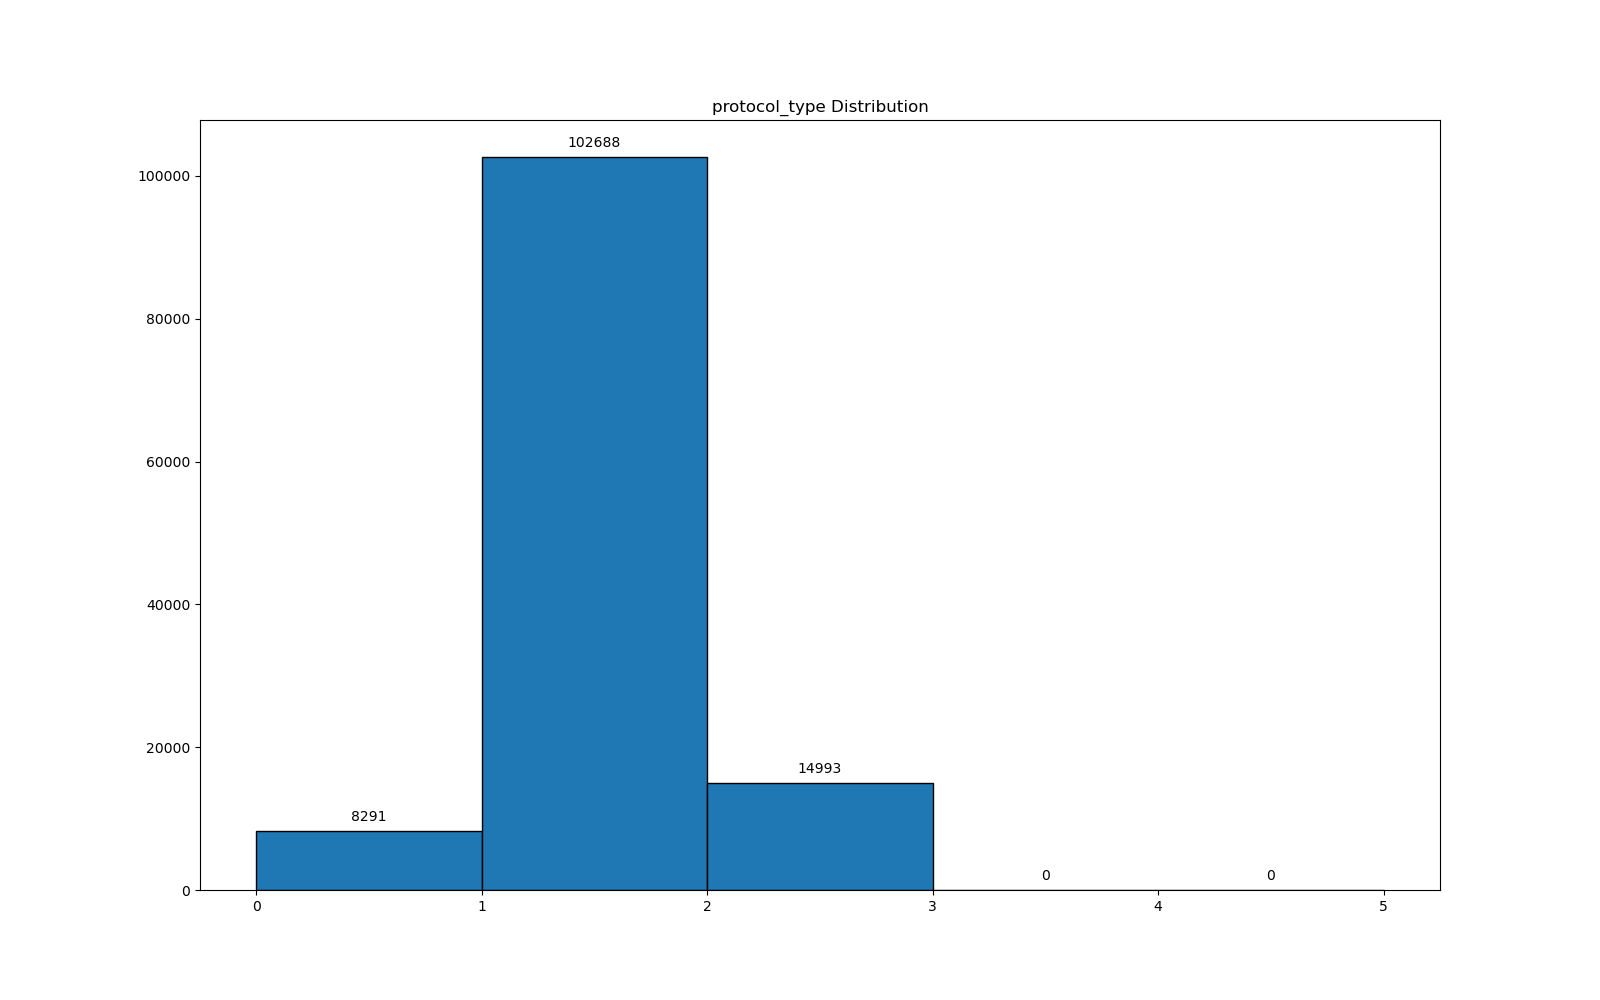
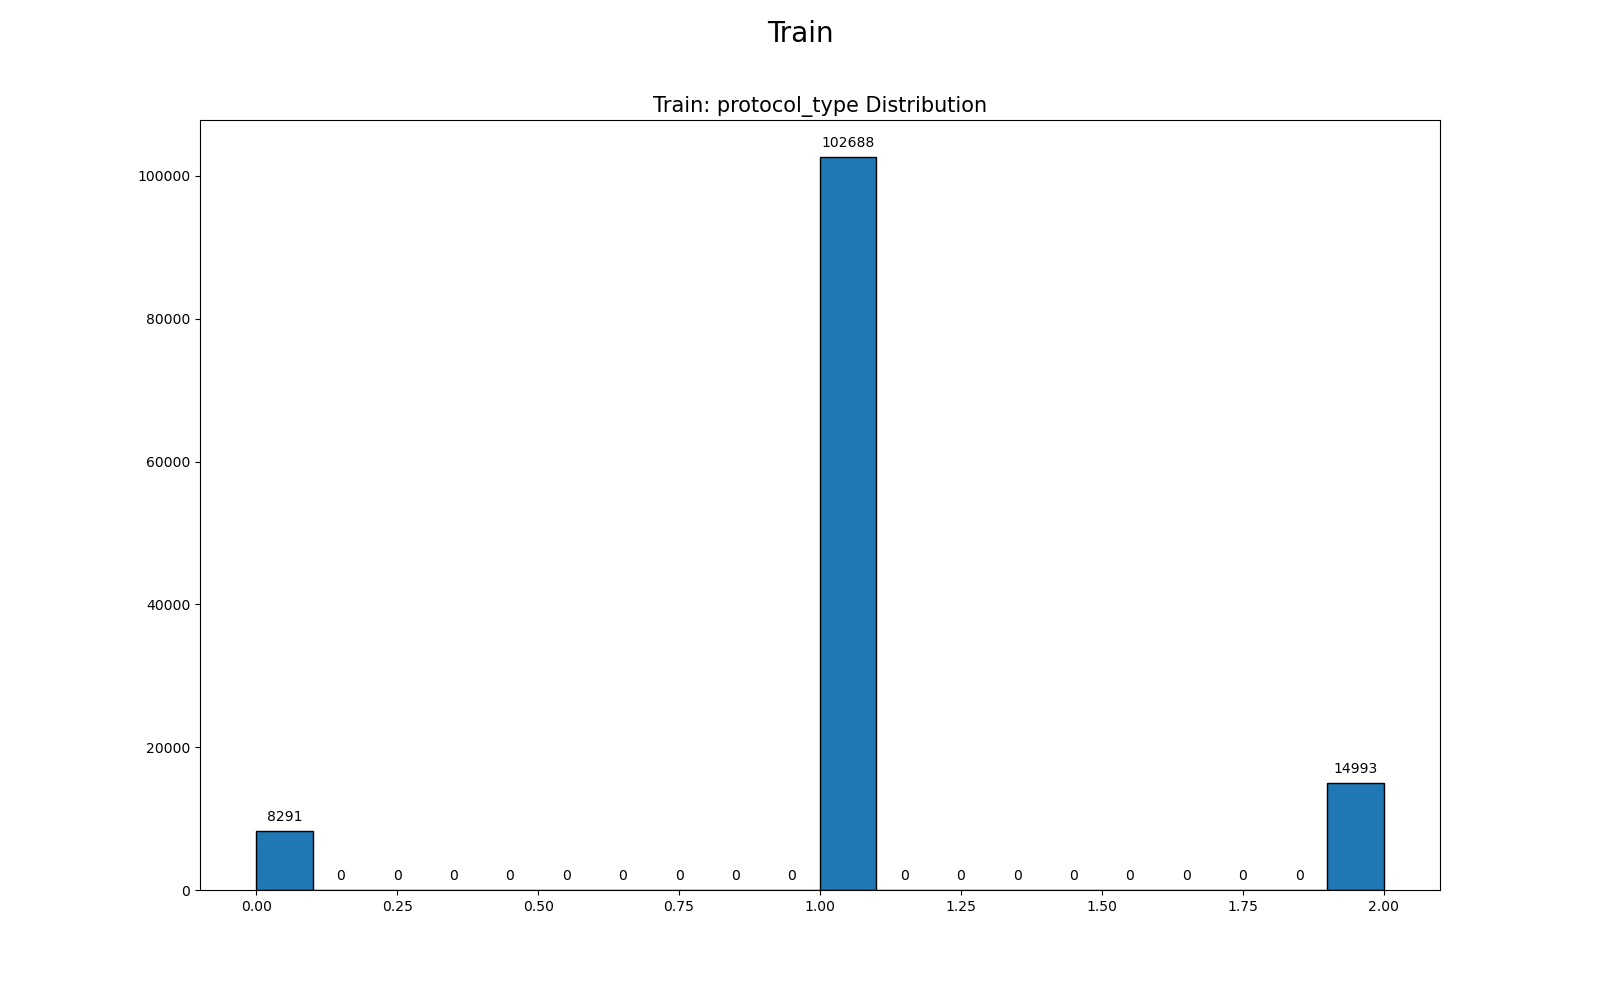
main changes

diff --git a/main.py b/main.py
@@ -4,12 +4,14 @@ import matplotlib.pyplot as plt
 
 from sklearn.model_selection import StratifiedKFold
 import Preprocess
+from sklearn.tree import DecisionTreeClassifier
+from sklearn.linear_model import LogisticRegression
 from sklearn.ensemble import RandomForestClassifier
-from sklearn.naive_bayes import GaussianNB
 from sklearn.ensemble import AdaBoostClassifier
 from sklearn.neighbors import KNeighborsClassifier
 from sklearn.metrics import f1_score,accuracy_score,confusion_matrix,ConfusionMatrixDisplay, recall_score,precision_score
 from rotation_forest import RotationForestClassifier
+from xgboost import XGBClassifier
 
 from sklearn.feature_selection import SelectKBest
 
@@ -17,96 +19,69 @@ import shap
 
 TARGET = 'attack_flag'
 
-if __name__ == '__main__':
-
-    # X_train, x_val, X_test, y_train, y_val, y_test = Preprocess.load_kdd_data()
-    train, test = Preprocess.read_and_preprocess_kdd()
-
+def run_models(flag=False,shap_flag=True,train=None,test=None):
     X_train, y_train = train.iloc[:, :-1], train[TARGET]
     X_test, y_test = test.iloc[:, :-1], test[TARGET]
-
 
     class_weights = Preprocess.calculating_class_weights(y_train)
     class_weights = {0: class_weights[0], 1: class_weights[1], 2: class_weights[2], 3: class_weights[3],
                      4: class_weights[4]}
 
+    if flag:
+        print("Models Without Parameter Tuning")
+        DT = DecisionTreeClassifier()
+        RF = RandomForestClassifier(class_weight=class_weights, max_depth=3)  # , criterion='entropy', min_samples_split=20)
+        RoF = RotationForestClassifier(class_weight=class_weights, max_depth=3)  # , criterion='entropy', min_samples_split=20)
+        LR = LogisticRegression()
+        xgb =XGBClassifier()
+        Adb = AdaBoostClassifier()
+        Knn = KNeighborsClassifier(n_neighbors=3)
+        # RoF = RotationForestClassifier(class_weight=class_weights, min_samples_split=5) #, criterion='entropy')
+        # RF = RandomForestClassifier(class_weight=class_weights, min_samples_split=5) #, criterion='entropy')
 
-    ##TODO: play with the params.
-    RF = RandomForestClassifier(class_weight=class_weights, max_depth=3) #, criterion='entropy', min_samples_split=20)
-    # RF = RandomForestClassifier(class_weight=class_weights, min_samples_split=5) #, criterion='entropy')
-    GNB = GaussianNB()
-    Adb = AdaBoostClassifier()
-    Knn = KNeighborsClassifier(n_neighbors=3)
-    RoF = RotationForestClassifier(class_weight=class_weights, max_depth=3) #, criterion='entropy', min_samples_split=20)
-    # RoF = RotationForestClassifier(class_weight=class_weights, min_samples_split=5) #, criterion='entropy')
+        models = [DT, RF, RoF, Adb, Knn] #, LR,xgb
+        skf = StratifiedKFold(n_splits=10, shuffle=True, random_state=True)
+        for model in models:
+            for train_inx,val_inx in skf.split(X_train,y_train):
+                X_train, X_test = X_train.iloc[train_inx], X_train.iloc[val_inx]
+                y_train, y_test = y_train.iloc[train_inx], y_train.iloc[val_inx]
+                model.fit(X_train, y_train)
 
-    print('-' * 40 + RF.__class__.__name__ + '-' * 40)
-    RF.fit(X_train, y_train)
-    y_pred = RF.predict(X_test)
-    print(f"f1:{f1_score(y_test, y_pred, average='weighted')}")
-    print(f"acc: {accuracy_score(y_test, y_pred)}")
-    print(f"precision: {precision_score(y_test,y_pred,average='weighted')}")
-    cm = confusion_matrix(y_test,y_pred)
-    disp = ConfusionMatrixDisplay(confusion_matrix=cm, display_labels=RF.classes_)
-    disp.plot()
-    plt.show()
+            print('-' * 40 + model.__class__.__name__ + '-' * 40)
+            model.fit(X_train, y_train)
+            y_pred = model.predict(X_test)
+            print(f"f1:{f1_score(y_test, y_pred, average='weighted')}")
+            print(f"acc: {accuracy_score(y_test, y_pred)}")
+            print(f"precision: {precision_score(y_test, y_pred, average='weighted')}")
+            cm = confusion_matrix(y_test, y_pred)
+            disp = ConfusionMatrixDisplay(confusion_matrix=cm, display_labels=model.classes_)
+            disp.plot()
+            plt.show()
 
-    print('-' * 40 + GNB.__class__.__name__ + '-' * 40)
-    GNB.fit(X_train, y_train)
-    y_pred = GNB.predict(X_test)
-    print(f"f1:{f1_score(y_test, y_pred, average='weighted')}")
-    print(f"acc: {accuracy_score(y_test, y_pred)}")
-    print(f"precision: {precision_score(y_test, y_pred, average='weighted')}")
-    cm = confusion_matrix(y_test, y_pred)
-    disp = ConfusionMatrixDisplay(confusion_matrix=cm, display_labels=GNB.classes_)
-    disp.plot()
-    plt.show()
+    if shap_flag:
+        """ generating shap values from XGBoost """
+        # gb = define_fit_XGBoost(x_train_gb, y_train_gb, y_test, x_test, "XGBoost_" + dataset_name, data_path)
+        RF_explainer = shap.TreeExplainer(RF)
+        shap_values_gb = RF_explainer.shap_values(X_test)
+        shap.summary_plot(shap_values_gb, X_test, plot_type="bar", max_display=20,
+                          plot_size=(15, 15))
 
-    print('-' * 40 + Adb.__class__.__name__ + '-' * 40)
-    Adb.fit(X_train, y_train)
-    y_pred = Adb.predict(X_test)
-    print(f"f1:{f1_score(y_test, y_pred, average='weighted')}")
-    print(f"acc: {accuracy_score(y_test, y_pred)}")
-    print(f"precision: {precision_score(y_test, y_pred, average='weighted')}")
-    cm = confusion_matrix(y_test, y_pred)
-    disp = ConfusionMatrixDisplay(confusion_matrix=cm, display_labels=Adb.classes_)
-    disp.plot()
-    plt.show()
+        """ sorted features importance names"""
+        vals = np.abs(shap_values_gb).mean(0)
+        feature_importance = pd.DataFrame(list(zip(X_train.columns, vals)),
+                                          columns=['col_name', 'feature_importance_vals'])
+        # feature_importance.sort_values(by=['feature_importance_vals'], ascending=False, inplace=True)
+        feature_importance.head()
 
-    print('-' * 40 + RoF.__class__.__name__ + '-' * 40)
-    RoF.fit(X_train, y_train)
-    y_pred = RoF.predict(X_test)
-    print(f"f1:{f1_score(y_test, y_pred, average='weighted')}")
-    print(f"acc: {accuracy_score(y_test, y_pred)}")
-    print(f"precision: {precision_score(y_test, y_pred, average='weighted')}")
-    cm = confusion_matrix(y_test, y_pred)
-    disp = ConfusionMatrixDisplay(confusion_matrix=cm, display_labels=RoF.classes_)
-    disp.plot()
-    plt.show()
 
-    print('-' * 40 + Knn.__class__.__name__ + '-' * 40)
-    Knn.fit(X_train, y_train)
-    y_pred = Knn.predict(X_test)
-    print(f"f1:{f1_score(y_test, y_pred, average='weighted')}")
-    print(f"acc: {accuracy_score(y_test, y_pred)}")
-    print(f"precision: {precision_score(y_test, y_pred, average='weighted')}")
-    cm = confusion_matrix(y_test, y_pred)
-    disp = ConfusionMatrixDisplay(confusion_matrix=cm, display_labels=RoF.classes_)
-    disp.plot()
-    plt.show()
+if __name__ == '__main__':
 
-    """ generating shap values from XGBoost """
-    # gb = define_fit_XGBoost(x_train_gb, y_train_gb, y_test, x_test, "XGBoost_" + dataset_name, data_path)
-    RF_explainer = shap.TreeExplainer(RF)
-    shap_values_gb = RF_explainer.shap_values(X_test)
-    shap.summary_plot(shap_values_gb, X_test, plot_type="bar", max_display=20,
-                      plot_size=(15, 15))
+    # X_train, x_val, X_test, y_train, y_val, y_test = Preprocess.load_kdd_data()
+    train, test = Preprocess.read_and_preprocess_kdd()
+    run_models(flag=True,shap_flag=False,train=train,test=test)
 
-    """ sorted features importance names"""
-    vals = np.abs(shap_values_gb).mean(0)
-    feature_importance = pd.DataFrame(list(zip(X_train.columns, vals)), columns=['col_name', 'feature_importance_vals'])
-    # feature_importance.sort_values(by=['feature_importance_vals'], ascending=False, inplace=True)
-    feature_importance.head()
+
+
 
     # # Create object that can calculate shap values
     # explainer = shap.TreeExplainer(RF)
@@ -119,9 +94,6 @@ if __name__ == '__main__':
     #                             shap_values[-1:], features=x_test.iloc[-1:],
     #                             feature_names=x_test.columns[0:20],
     #                             matplotlib=True, show=False, plot_cmap=['#77dd77', '#f99191'])
-
-
-
 
 
     #skf = StratifiedKFold(n_splits=10, shuffle=True, random_state=True)

diff --git a/Preprocess.py b/Preprocess.py
@@ -1,5 +1,6 @@
 import pandas as pd
 import numpy as np
+import matplotlib.gridspec as gridspec
 from sklearn.preprocessing import LabelEncoder
 import seaborn as sns
 import itertools
@@ -230,13 +231,15 @@ def read_and_preprocess_kdd(plots:bool=False):
 
         df = df.astype('float32')
         test_df = test_df.astype(('float32'))
-        # print feature distribution and if it greater then 0.95
-        for col in df.columns:
-            to_del = imbalnce_features(df, col)
-            if to_del:
-                del df[col]
-            feature_plot(df, col)
-            feature_plot(test_df,TARGET)
+        if plots:
+            # print feature distribution and if it greater then 0.95
+            for col in df.columns:
+                feature_plot(df, col, 'Train')
+                to_del = imbalnce_features(df, col)
+                if to_del:
+                    del df[col]
+                    del test_df[col]
+                feature_plot(test_df,TARGET,'Test')
     return df, test_df
 
 
@@ -267,17 +270,25 @@ def calculating_class_weights(y_true):
     # weights =  dict(zip(np.unique(train_classes), class_weights))
     return weights
 
-def feature_plot(df,feature):
-    fig, ax = plt.subplots(figsize=(16, 10))
-    ax.hist(df[feature], density=False, bins=[0, 1, 2, 3, 4, 5], ec='black')
-    ax.set_title(f'Test Target Distribution')
-    for rect in ax.patches:
-        height = rect.get_height()
-        ax.annotate(f'{int(height)}', xy=(rect.get_x() + rect.get_width() / 2, height),
-                    xytext=(0, 5), textcoords='offset points', ha='center', va='bottom')
+def feature_plot(df,feature,title):
+     fig, ax = plt.subplots(figsize=(16, 10))
+     #vc = df[feature].value_counts()
+     #bins = list(range(0,len((set(vc)))))
 
-    plt.show()
-    fig.savefig(f'plots/{feature}.png')
+     ax.hist(df[feature],density=False,bins=20, ec='black')
+     ax.set_title(f'{title}: {feature} Distribution',fontsize=15)
+        # ax.set_ylabel('Count', fontsize=12)
+
+     fig.suptitle(title, fontsize=20)
+     for rect in ax.patches:
+         height = rect.get_height()
+         ax.annotate(f'{int(height)}', xy=(rect.get_x() + rect.get_width() / 2, height),
+                     xytext=(0, 5), textcoords='offset points', ha='center', va='bottom')
+
+     plt.show()
+     fig.savefig(f'plots/{feature}.png')
+
+
 
 
 def imbalnce_features(df,feature):
